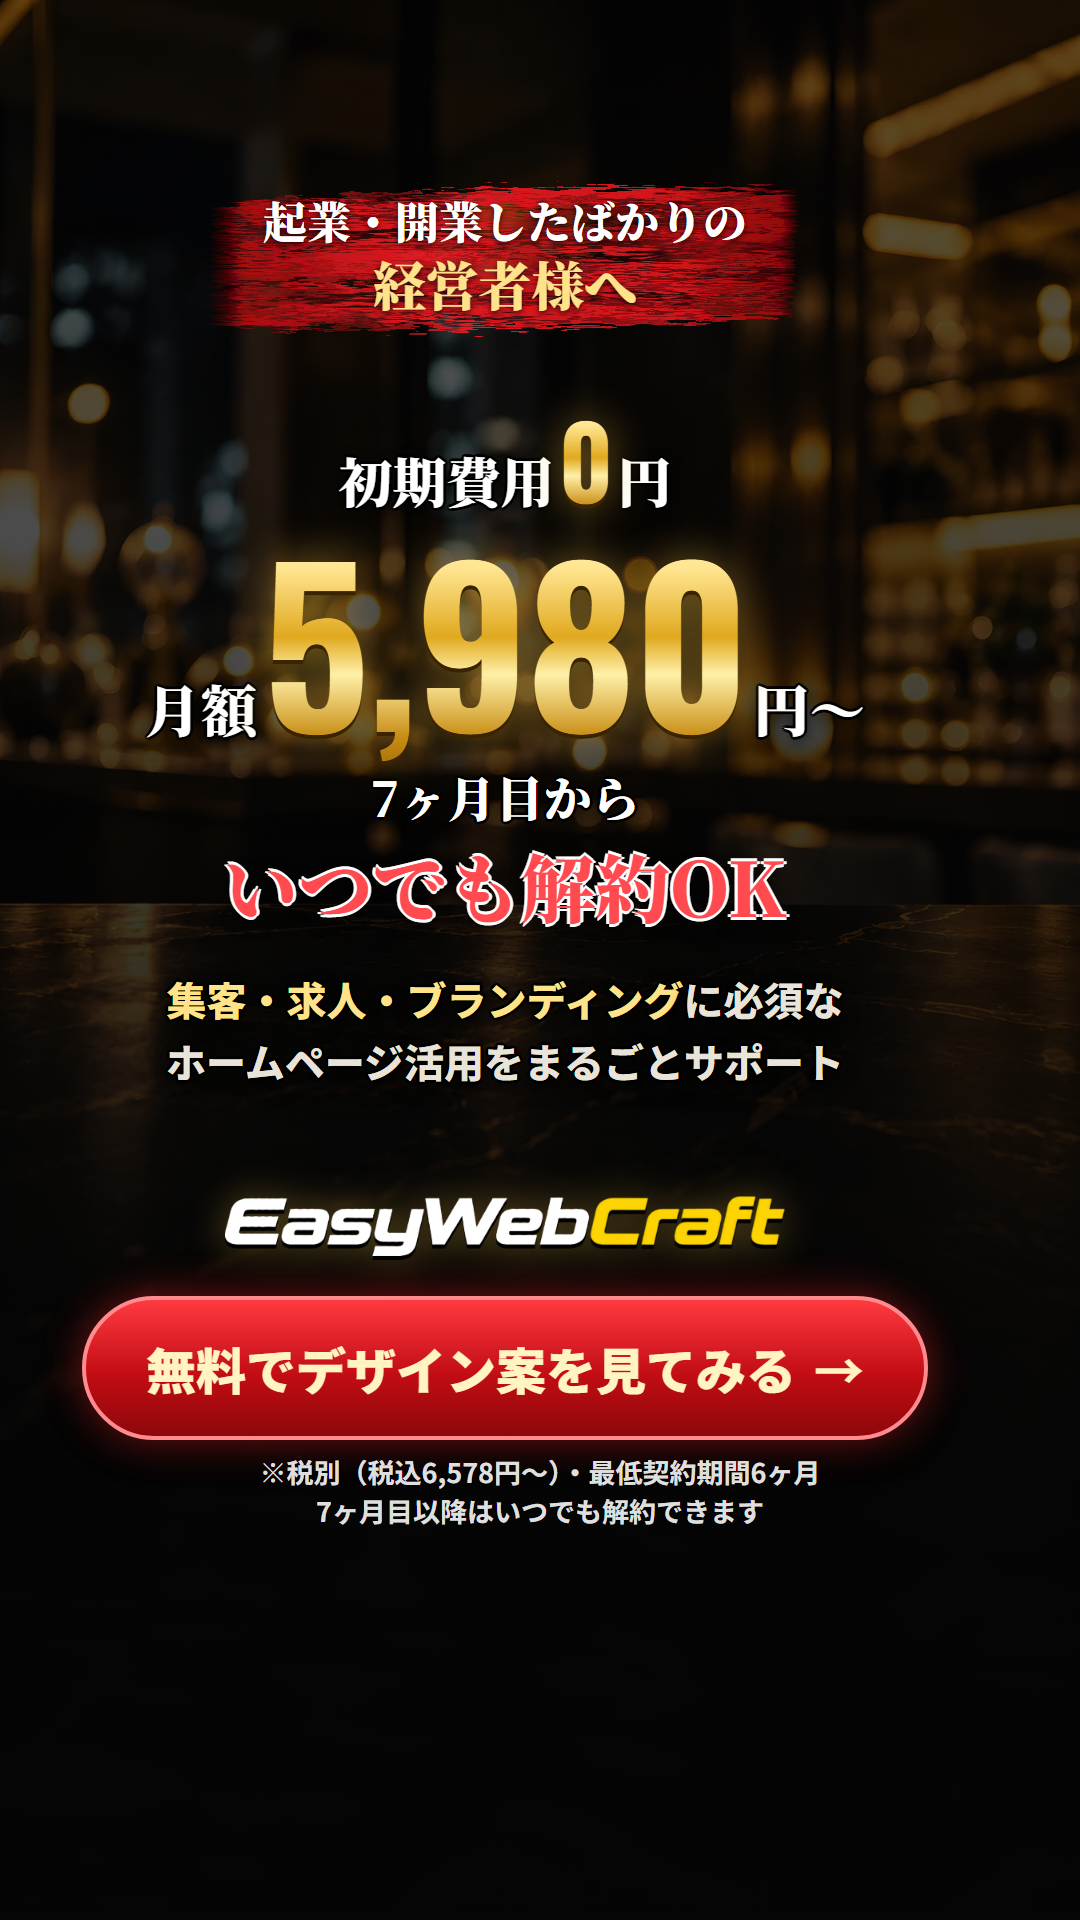
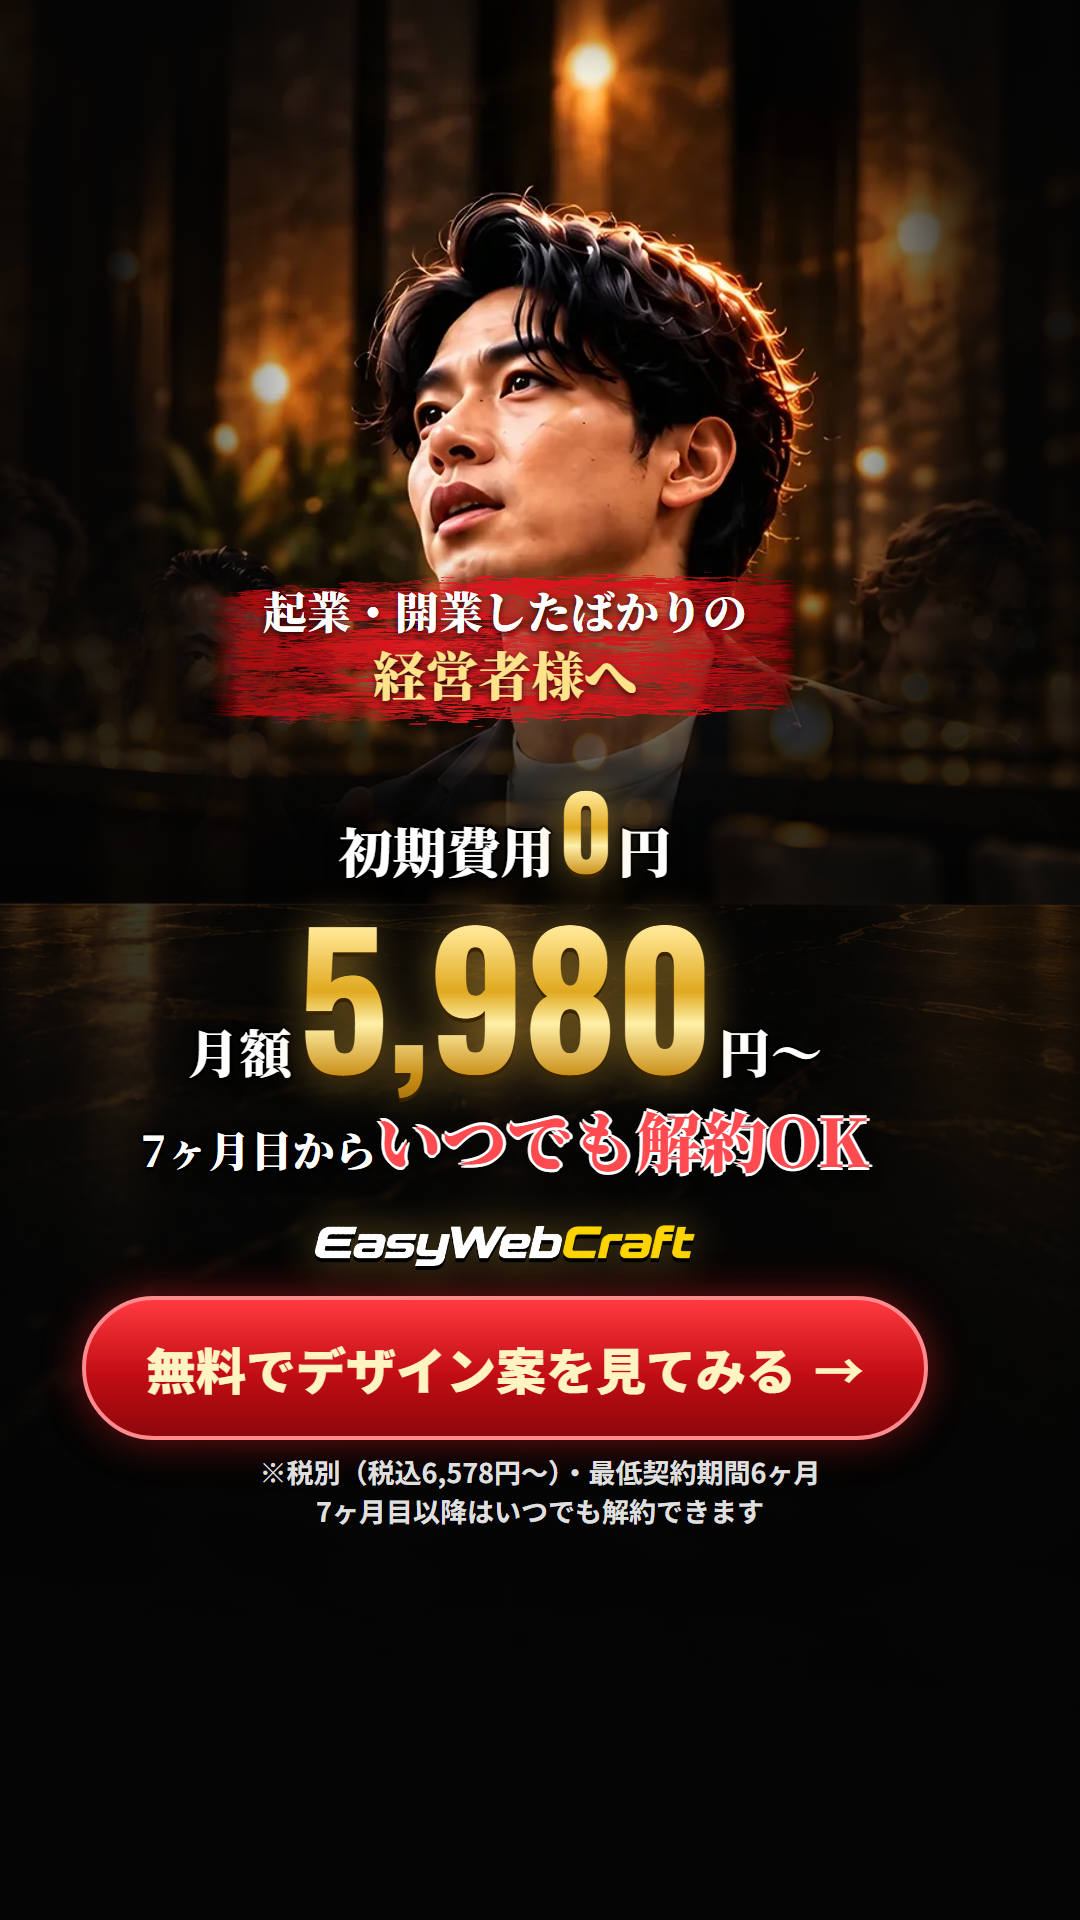
挑戦LP広告：悩み・対象系（C1・C3・C4・C5）を顔出し版に
Claude-Session: https://claude.ai/code/session_01G65TiHfa1BUco43NvNDLJF

diff --git a/challenge/ads.html b/challenge/ads.html
@@ -89,24 +89,35 @@ body{width:1080px; font-family:"Noto Sans JP",sans-serif; color:#fff; background
 .g10{height:10px}.g20{height:20px}.g30{height:30px}.g40{height:40px}.g60{height:60px}
 
 .man{position:absolute; z-index:1; left:0; right:0; top:0; height:900px; background:url('img/q-man.webp') center 20%/cover; -webkit-mask-image:linear-gradient(#000 55%,transparent); mask-image:linear-gradient(#000 55%,transparent); opacity:.9}
+
+/* 顔出し版：上に人物写真、文字はその下 */
+.face .in{top:560px}
+.face .photo{position:absolute; z-index:1; left:0; right:0; top:0; height:900px;
+  -webkit-mask-image:linear-gradient(#000 60%,transparent); mask-image:linear-gradient(#000 60%,transparent)}
+.face .photo.up{background:url('img/man-up.webp') center 10%/cover}
+.face .photo.up::after{content:""; position:absolute; inset:0; background:radial-gradient(ellipse 42% 60% at 52% 40%,transparent 50%,rgba(5,5,5,.94) 100%)}
+.face .photo.think{background:url('img/man-think.webp') center 30px/auto 980px no-repeat}
+.face .photo.think.r{background-image:url('img/man-think-r.webp')}
+.checks.two{grid-template-columns:1fr 1fr}
+.checks.two div{padding:16px 22px; font-size:42px}
+#c5 .in{top:500px}
 </style>
 </head>
 <body>
 
 <!-- C1 対象×価格（LPのFVと同じ訴求） -->
-<section class="ad" id="c1">
+<section class="ad face" id="c1">
+  <div class="photo up"></div>
   <div class="in">
     <p class="label">起業・開業したばかりの<br><b>経営者様へ</b></p>
-    <div class="g40"></div>
-    <p class="zero outline">初期費用<span class="n gold">0</span>円</p>
-    <p class="price outline">月額<span class="n gold">5,980</span>円〜</p>
     <div class="g20"></div>
-    <p class="cancel outline">7ヶ月目から<br><em>いつでも解約OK</em></p>
-    <div class="g30"></div>
-    <p class="sub outline"><em>集客・求人・ブランディング</em>に必須な<br>ホームページ活用をまるごとサポート</p>
+    <p class="zero outline">初期費用<span class="n gold">0</span>円</p>
+    <p class="price outline" style="font-size:52px">月額<span class="n gold" style="font-size:180px">5,980</span>円〜</p>
+    <div class="g10"></div>
+    <p class="cancel outline" style="font-size:42px">7ヶ月目から<em>いつでも解約OK</em></p>
     <div class="sp"></div>
-    <img class="logo" src="img/logo-fv.webp" alt="EasyWebCraft">
-    <div class="g40"></div>
+    <img class="logo logo-s" src="img/logo-fv.webp" alt="EasyWebCraft">
+    <div class="g30"></div>
     <p class="cta">無料でデザイン案を見てみる</p>
   </div>
   <p class="fine">※税別（税込6,578円〜）・最低契約期間6ヶ月<br>7ヶ月目以降はいつでも解約できます</p>
@@ -131,32 +142,28 @@ body{width:1080px; font-family:"Noto Sans JP",sans-serif; color:#fff; background
 </section>
 
 <!-- C3 検索されても出てこない → 他社へ -->
-<section class="ad plain" id="c3">
+<section class="ad face" id="c3">
+  <div class="photo think"></div>
   <div class="in">
-    <p class="serif outline" style="font-size:74px; line-height:1.4">あなたの会社名、<br>検索したら<br><span class="red">何が出てきますか？</span></p>
-    <div class="g60"></div>
+    <p class="serif outline" style="font-size:66px; line-height:1.4">あなたの会社名、検索したら<br><span class="red">何が出てきますか？</span></p>
+    <div class="g40"></div>
     <div class="chain">
-      <div class="c1">見込み客が会社名を検索</div>
       <div class="c1">ホームページが<span class="red">見つからない</span></div>
       <div class="c2">「本当にここで大丈夫？」</div>
       <div class="c3">そのまま他社へ……</div>
     </div>
     <div class="sp"></div>
-    <p class="sub outline" style="font-size:38px">初期費用<em>0円</em>・月額<em>5,980円〜</em>で<br>今日から準備を始めませんか</p>
-    <div class="g30"></div>
     <p class="cta">無料でデザイン案を見てみる</p>
   </div>
-  <p class="fine">※税別（税込6,578円〜）・最低契約期間6ヶ月<br>相談・トップページのデザイン案までは無料です</p>
+  <p class="fine">初期費用0円・月額5,980円〜（税別）・最低契約期間6ヶ月<br>相談・トップページのデザイン案までは無料です</p>
 </section>
 
 <!-- C4 事業は決まった、HPは何から？ -->
-<section class="ad" id="c4">
+<section class="ad face" id="c4">
+  <div class="photo think r"></div>
   <div class="in">
-    <div class="g60"></div>
-    <p class="serif outline" style="font-size:70px; line-height:1.4">事業は決まった。<br>でも、ホームページは</p>
-    <div class="g10"></div>
+    <p class="serif outline" style="font-size:64px; line-height:1.4">事業は決まった。<br>でも、ホームページは</p>
     <p class="serif gold" style="font-size:76px; line-height:1.3; white-space:nowrap">何から始めればいい？</p>
-    <div class="g40"></div>
     <div class="g30"></div>
     <div class="chips"><span>「何を載せる？」</span><span>「何ページ必要？」</span><span>「文章は？」</span><span>「デザインは？」</span></div>
     <div class="g30"></div>
@@ -168,22 +175,20 @@ body{width:1080px; font-family:"Noto Sans JP",sans-serif; color:#fff; background
 </section>
 
 <!-- C5 本業が忙しくて手が回らない -->
-<section class="ad" id="c5">
+<section class="ad face" id="c5">
+  <div class="photo think"></div>
   <div class="in">
-    <p class="serif outline" style="font-size:70px; line-height:1.4">本業が忙しくて<br>ホームページまで<br><span class="red">手が回らない…</span></p>
-    <div class="g30"></div>
+    <p class="serif outline" style="font-size:60px; line-height:1.4">本業が忙しくて<br>ホームページまで<br><span class="red" style="font-size:1.2em">手が回らない…</span></p>
+    <div class="g20"></div>
     <div class="arrow"></div>
-    <div class="g30"></div>
-    <p class="serif gold" style="font-size:74px">本業に集中したままでOK</p>
-    <div class="g40"></div>
-    <div class="checks">
-      <div>文章づくり</div>
-      <div>ページ構成</div>
-      <div>デザイン</div>
-      <div>公開後の更新・保守</div>
+    <div class="g20"></div>
+    <p class="serif gold" style="font-size:66px">本業に集中したままでOK</p>
+    <div class="g20"></div>
+    <div class="checks two">
+      <div>文章づくり</div><div>ページ構成</div><div>デザイン</div><div>更新・保守</div>
     </div>
     <div class="g20"></div>
-    <p class="sub outline" style="font-size:44px"><em>まとめてお任せください</em></p>
+    <p class="sub outline" style="font-size:42px"><em>まとめてお任せください</em></p>
     <div class="sp"></div>
     <p class="cta">無料でデザイン案を見てみる</p>
   </div>

diff --git a/challenge/index.html b/challenge/index.html
@@ -38,15 +38,15 @@ code{background:var(--bg); padding:0 5px; border-radius:4px; font-size:.88em; wo
   <header>
     <h1>挑戦LP向け TikTok広告画像 6案</h1>
     <p class="lead">LP（黒×金）と同じ背景・色・言葉で作った縦長画像です。広告から開いたときに、LPと同じ世界観がそのまま続くようにしています。</p>
-    <div class="spec"><span>1080×1920（9:16）</span><span>文字はTikTokのUIがかぶらない範囲</span><span>税別・最低契約期間・無料の範囲の注記入り</span></div>
+    <div class="spec"><span>1080×1920（9:16）</span><span>文字はTikTokのUIがかぶらない範囲</span><span>税別・最低契約期間・無料の範囲の注記入り</span><span>C1・C3・C4・C5は顔出し版</span></div>
   </header>
 
   <div class="grid">
-    <div class="card"><img src="jpg/c1.jpg" alt="起業・開業したばかりの経営者様へ 月額5,980円〜"><div class="no"><b>C1</b>対象×価格</div><span class="tgt">起業・開業したばかり</span><span class="star">LPのFVと同じ訴求</span><p class="cap">起業・開業したばかりの経営者様へ。初期費用0円・月額5,980円〜（税別）で、7ヶ月目からいつでも解約OK。</p></div>
+    <div class="card"><img src="jpg/c1.jpg" alt="起業・開業したばかりの経営者様へ 月額5,980円〜"><div class="no"><b>C1</b>対象×価格</div><span class="star">顔出し</span><span class="tgt">起業・開業したばかり</span><span class="star">LPのFVと同じ訴求</span><p class="cap">起業・開業したばかりの経営者様へ。初期費用0円・月額5,980円〜（税別）で、7ヶ月目からいつでも解約OK。</p></div>
     <div class="card"><img src="jpg/c2.jpg" alt="契約する前に実際のデザインを作ります"><div class="no"><b>C2</b>安すぎて不安？</div><span class="tgt">価格に不安がある人</span><span class="star">一番強いオファー</span><p class="cap">「安いけど大丈夫？」と思ったら。契約する前に、あなたの事業専用のHPデザイン案を無料で作ります。</p></div>
-    <div class="card"><img src="jpg/c3.jpg" alt="あなたの会社名、検索したら何が出てきますか？"><div class="no"><b>C3</b>検索されても出てこない</div><span class="tgt">HPを後回しにしている人</span><p class="cap">お客様は問い合わせる前に、会社名を検索しています。HPがないまま、他社に流れていませんか？</p></div>
-    <div class="card"><img src="jpg/c4.jpg" alt="事業は決まった。でも、ホームページは何から始めればいい？"><div class="no"><b>C4</b>何から始めれば？</div><span class="tgt">HPの知識がない人</span><p class="cap">何を載せる？何ページ必要？何も決まっていなくても、相談するところから始められます。</p></div>
-    <div class="card"><img src="jpg/c5.jpg" alt="本業が忙しくてホームページまで手が回らない"><div class="no"><b>C5</b>手が回らない</div><span class="tgt">本業が忙しい人</span><p class="cap">文章・構成・デザイン・公開後の更新まで、まとめてお任せ。本業に集中したままでOKです。</p></div>
+    <div class="card"><img src="jpg/c3.jpg" alt="あなたの会社名、検索したら何が出てきますか？"><div class="no"><b>C3</b>検索されても出てこない</div><span class="star">顔出し</span><span class="tgt">HPを後回しにしている人</span><p class="cap">お客様は問い合わせる前に、会社名を検索しています。HPがないまま、他社に流れていませんか？</p></div>
+    <div class="card"><img src="jpg/c4.jpg" alt="事業は決まった。でも、ホームページは何から始めればいい？"><div class="no"><b>C4</b>何から始めれば？</div><span class="star">顔出し</span><span class="tgt">HPの知識がない人</span><p class="cap">何を載せる？何ページ必要？何も決まっていなくても、相談するところから始められます。</p></div>
+    <div class="card"><img src="jpg/c5.jpg" alt="本業が忙しくてホームページまで手が回らない"><div class="no"><b>C5</b>手が回らない</div><span class="star">顔出し</span><span class="tgt">本業が忙しい人</span><p class="cap">文章・構成・デザイン・公開後の更新まで、まとめてお任せ。本業に集中したままでOKです。</p></div>
     <div class="card"><img src="jpg/c6.jpg" alt="高い・縛りが長い・難しいと思っていませんか？"><div class="no"><b>C6</b>3つの安心</div><span class="tgt">費用・契約が不安な人</span><p class="cap">初期費用0円、契約前のデザイン案0円、7ヶ月目からいつでも解約OK。月額5,980円〜（税別）。</p></div>
   </div>
 
